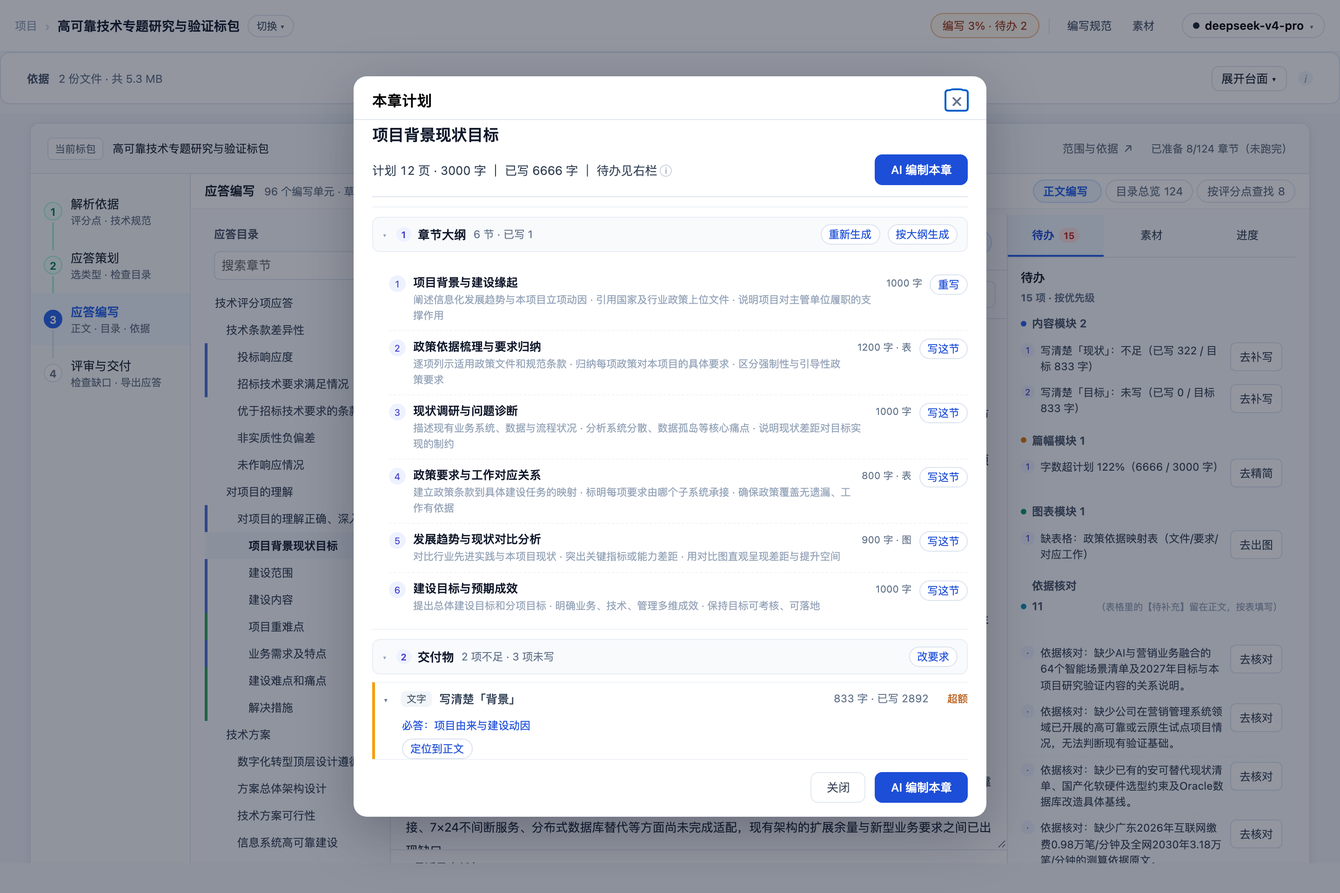
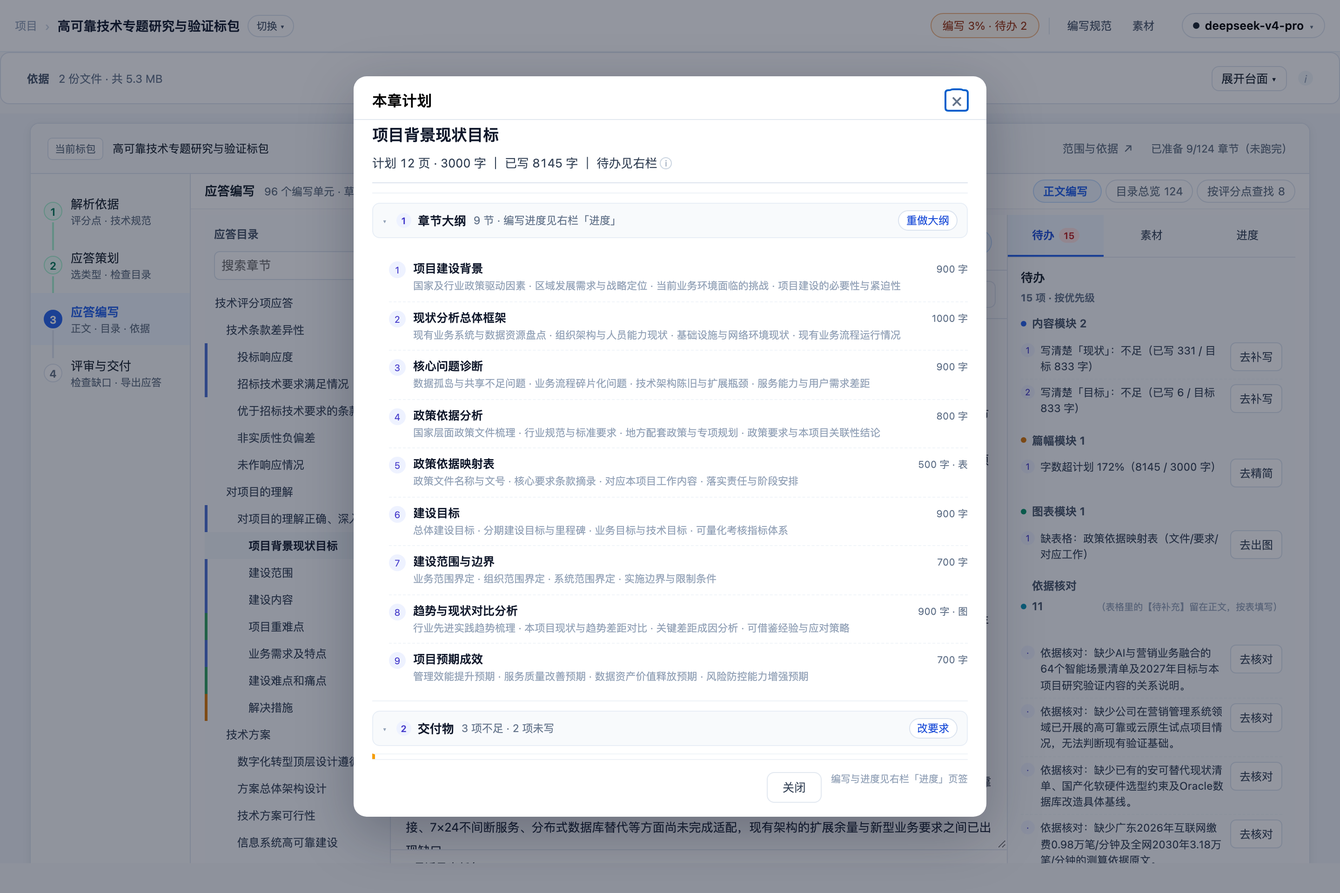
refactor(职责分离): 计划面板只给大纲要求；编写动作与完成情况全部归「进度」页签
用户指出：计划里不该有"重写/完成情况"，计划只给大纲与要求；
开始编写、编写进度、完成情况都在「进度」模块体现。

## 计划面板（只读说明书）
- 删除大纲里的每节「编写本节/重写本节」按钮
- 删除「已写 N 节」完成状态（改为"编写进度见右栏「进度」"）
- 删除按钮组「编写整章 / 按大纲重排 / 按大纲生成」
- 删除顶部与底部两个「AI 编制本章 / 编写整章」按钮
- 只保留「生成大纲 / 重做大纲」（这是计划内容本身）

## 右栏「进度」页签（承载编写）
```
章节编写进度
9/9 节已写
[继续编写（补未写）]        ← 开始/继续编写整章
1 项目建设背景      已写    [重写本节]
2 现状分析总体框架   已写    [重写本节]
…
（下方保留原有"本章编制进度"：篇幅/字数/生成记录）
```

## 章头「编写整章」
- 文案：AI 编制本章 → **编写整章**（title 说明"按章节大纲逐节编写，已有内容的节保留"）
- 行为：切到「进度」页签并调用**同一引擎** `writeChapterApi`（只补未写节）
- 计划面板、进度页签、章头三处不再各有一套逻辑

## 引擎统一（模块级）
- `fetchChapterPlan()` / `writeSectionApi()` / `writeChapterApi({onlyMissing})`
- 三处入口共用；`writeChapterApi` 只补未写/待写的节，已写节保留

## 页签互斥修复
- 补上 `[data-panel=todo|materials|ai]` 三者的显隐规则（此前只互斥 todo/materials，
  导致"进度"页签会与另两个 pane 同时显示）

## 自检（51 条）
- 计划面板只给大纲与要求（无编写动作）
- 计划面板头部无主操作按钮
- 进度页签承载编写进度与动作
- 页签切换互斥（三页签）

后端 968 passed · 界面 51/51（v339）

diff --git a/frontend/assets/chapter-studio.css b/frontend/assets/chapter-studio.css
@@ -3,7 +3,7 @@
 @media(max-width:1200px){.cs-workspace{grid-template-columns:185px minmax(300px,1fr)}.cs-aside{grid-column:1/-1;max-height:380px;border-top:1px solid #e2e8f0}.cs-workspace{height:auto}.cs-main{min-height:560px}.cs-tree{max-height:650px}}
 @media(max-width:700px){.cs-workspace,.cs-workspace:has(.cs-aside[hidden]){grid-template-columns:minmax(0,1fr)}.cs-tree{max-height:200px;border-bottom:1px solid #e2e8f0}.cs-editor{min-height:380px}.cs-document [data-cs=progress]{margin-left:0}}
 .cs-team{padding:10px 12px;background:#f8fafc;border-bottom:1px solid #e2e8f0;font-size:12px;line-height:1.8}.cs-team summary{cursor:pointer;font-weight:600}.cs-team button{font:inherit;padding:5px 9px;background:white;border:1px solid #dbe3ef;border-radius:6px;margin:3px 6px 3px 0;cursor:pointer}.cs-team button:disabled{opacity:.5}.ct-models{display:grid;grid-template-columns:repeat(auto-fit,minmax(180px,1fr));gap:8px;padding:8px 0}.ct-models label{display:flex;flex-direction:column;gap:4px}.ct-models select{padding:5px;max-width:100%;border:1px solid #dbe3ef;border-radius:5px}.ct-jobs article{padding:8px 0;border-bottom:1px solid #e2e8f0}.ct-jobs strong{margin-right:12px}.ct-detail{max-height:360px;overflow:auto}.ct-detail h4,.ct-detail h5{margin:8px 0}.ct-status:not(:empty){padding:8px 0;color:#1e40af}
-.cs-document-head{display:flex;justify-content:space-between;align-items:center;gap:12px;padding:12px 0;font-size:13px;border-bottom:1px solid #e2e8f0}.cs-document-head [data-cs=progress]{margin-left:12px;font-size:12px;color:#64748b}.cs-delivery{position:relative;font-size:12px}.cs-delivery>summary{cursor:pointer;color:#475569}.cs-delivery>.cs-document{position:absolute;right:0;top:26px;width:400px;max-width:80vw;padding:16px;background:white;border:1px solid #dbe3ef;border-radius:8px;box-shadow:0 8px 24px #17203315;z-index:5}.cs-tree-label{padding:12px 10px 0;font-size:12px;font-weight:600;color:#475569}.cs-main .cs-chapter-heading{padding:16px 16px 10px}.cs-chapter-heading h3{margin:3px 0 6px;font-size:18px}.cs-more{position:relative;margin-left:auto;font-size:12px}.cs-more>summary{cursor:pointer;padding:6px 9px}.cs-more[open]{display:flex;flex-wrap:wrap}.cs-toolbar{align-items:center}.cs-inspector{padding:0;min-width:0}.cs-inspector-tabs{display:flex;position:sticky;top:0;z-index:2;background:#fafbfd;border-bottom:1px solid #e2e8f0}.cs-inspector-tabs button{flex:1;border:0;border-bottom:2px solid transparent;border-radius:0;padding:13px 3px;white-space:nowrap;background:transparent}.cs-inspector-tabs [aria-pressed=true]{border-bottom-color:#2563eb;color:#1d4ed8;font-weight:600;background:#eff6ff}.cs-inspector [data-cs=aside]{padding:0 14px}.cs-inspector[data-panel=todo] [data-pane=materials],.cs-inspector[data-panel=materials] [data-pane=todo],.cs-inspector:not([data-panel=ai]) .cs-team,.cs-inspector[data-panel=ai] [data-cs=aside]{display:none}.cs-inspector .cs-team{border:0;background:transparent;padding:14px}.cs-team h4{font-size:14px;margin:0 0 8px}.cs-team .cs-primary{background:#2563eb;color:#fff;border-color:#2563eb;padding:9px 14px}.ct-steps{display:flex;gap:4px;padding:0;list-style:none;margin:12px 0;font-size:11px}.ct-steps li{flex:1;background:#f1f5f9;color:#64748b;padding:6px 3px;text-align:center;border-radius:4px}.ct-steps .active{background:#dbeafe;color:#1d4ed8}.ct-steps .done{background:#ecfdf5;color:#047857}.ct-settings,.ct-history{padding:12px 0;border-bottom:1px solid #e2e8f0}.ct-history article{padding:10px 0;border-bottom:1px solid #e2e8f0}.ct-detail:empty{display:none}.cs-workspace .cs-editor:focus{box-shadow:inset 3px 0 #dbeafe}
+.cs-document-head{display:flex;justify-content:space-between;align-items:center;gap:12px;padding:12px 0;font-size:13px;border-bottom:1px solid #e2e8f0}.cs-document-head [data-cs=progress]{margin-left:12px;font-size:12px;color:#64748b}.cs-delivery{position:relative;font-size:12px}.cs-delivery>summary{cursor:pointer;color:#475569}.cs-delivery>.cs-document{position:absolute;right:0;top:26px;width:400px;max-width:80vw;padding:16px;background:white;border:1px solid #dbe3ef;border-radius:8px;box-shadow:0 8px 24px #17203315;z-index:5}.cs-tree-label{padding:12px 10px 0;font-size:12px;font-weight:600;color:#475569}.cs-main .cs-chapter-heading{padding:16px 16px 10px}.cs-chapter-heading h3{margin:3px 0 6px;font-size:18px}.cs-more{position:relative;margin-left:auto;font-size:12px}.cs-more>summary{cursor:pointer;padding:6px 9px}.cs-more[open]{display:flex;flex-wrap:wrap}.cs-toolbar{align-items:center}.cs-inspector{padding:0;min-width:0}.cs-inspector-tabs{display:flex;position:sticky;top:0;z-index:2;background:#fafbfd;border-bottom:1px solid #e2e8f0}.cs-inspector-tabs button{flex:1;border:0;border-bottom:2px solid transparent;border-radius:0;padding:13px 3px;white-space:nowrap;background:transparent}.cs-inspector-tabs [aria-pressed=true]{border-bottom-color:#2563eb;color:#1d4ed8;font-weight:600;background:#eff6ff}.cs-inspector [data-cs=aside]{padding:0 14px}.cs-inspector[data-panel=todo] [data-pane=materials],.cs-inspector[data-panel=materials] [data-pane=todo],.cs-inspector[data-panel=todo] [data-pane=ai],.cs-inspector[data-panel=materials] [data-pane=ai],.cs-inspector[data-panel=ai] [data-pane=materials],.cs-inspector[data-panel=ai] [data-pane=todo],.cs-inspector:not([data-panel=ai]) .cs-team{display:none}.cs-inspector .cs-team{border:0;background:transparent;padding:14px}.cs-team h4{font-size:14px;margin:0 0 8px}.cs-team .cs-primary{background:#2563eb;color:#fff;border-color:#2563eb;padding:9px 14px}.ct-steps{display:flex;gap:4px;padding:0;list-style:none;margin:12px 0;font-size:11px}.ct-steps li{flex:1;background:#f1f5f9;color:#64748b;padding:6px 3px;text-align:center;border-radius:4px}.ct-steps .active{background:#dbeafe;color:#1d4ed8}.ct-steps .done{background:#ecfdf5;color:#047857}.ct-settings,.ct-history{padding:12px 0;border-bottom:1px solid #e2e8f0}.ct-history article{padding:10px 0;border-bottom:1px solid #e2e8f0}.ct-detail:empty{display:none}.cs-workspace .cs-editor:focus{box-shadow:inset 3px 0 #dbeafe}
 @media(min-width:981px){.cs-workspace{grid-template-columns:200px minmax(300px,1fr) 310px;height:75vh;min-height:620px}.cs-inspector{grid-column:auto;max-height:none;border-top:0}.cs-main{min-height:0}.cs-tree{max-height:none}}
 @media(max-width:980px){.cs-workspace{grid-template-columns:180px minmax(0,1fr);height:auto}.cs-inspector{grid-column:1/-1;max-height:500px;border-top:1px solid #e2e8f0}.cs-document-head{flex-wrap:wrap}.cs-document-head [data-cs=progress]{display:block;margin:5px 0 0}.cs-main{min-height:500px}.cs-tree{max-height:650px}}
 @media(max-width:600px){.cs-workspace{grid-template-columns:minmax(0,1fr)}.cs-tree{max-height:190px}.cs-toolbar{gap:4px;padding:8px}.cs-main .cs-chapter-heading{padding:12px}.cs-insert .cs-muted{display:none}}
@@ -679,3 +679,9 @@
 .cs-ol-main b { display: block; font-size: 12.5px; color: #0f172a; font-weight: 600; }
 .cs-ol-main small { display: block; margin-top: 2px; font-size: 11px; color: #94a3b8; line-height: 1.5; }
 .cs-ol-meta { flex-shrink: 0; font-size: 10.5px; color: #64748b; margin-top: 2px; }
+
+/* 进度页签：章节编写进度 */
+.cs-progress-actions { margin: 0 0 8px; }
+.cs-todo-act--primary { border-color: #1d4ed8; background: #1d4ed8; color: #fff; }
+.cs-todo-act--primary:hover { background: #1e40af; }
+.cs-cp-scope { font-size: 10.5px; color: #94a3b8; }

diff --git a/frontend/assets/mode-outline.js b/frontend/assets/mode-outline.js
@@ -2,9 +2,9 @@
    抽成模块的目的：两段内联脚本有 90 个同名顶层标识符 + 18 个重复 DOM id，
    同页拼接必然互相覆盖；各自成为一个模块即各自一个作用域。
    本文件在抽取时**未改任何逻辑**。 */
-import {mountChapterStudio, exportDocument} from './chapter-studio.mjs?v=20261016-v336';
-import { api } from './api.js?v=20261016-v336';
-import { specContentHtml } from './spec-content.mjs?v=20261016-v336';
+import {mountChapterStudio, exportDocument} from './chapter-studio.mjs?v=20261016-v339';
+import { api } from './api.js?v=20261016-v339';
+import { specContentHtml } from './spec-content.mjs?v=20261016-v339';
 // 顶栏（项目名旁边那行「第 N 轮 · ...」）由共享壳 workspace.js 渲染。这里要把它
 // 改成**页面自己的真实状态**：checkpoint 的 stage 在准备中/编写准备完成后都停在
 // outline_review，只看它的话顶栏永远显示"待确认目录"（实测就是这个问题）。
@@ -12,7 +12,7 @@ import { workspace, renderWorkspaceChrome,
          REQUIREMENT_ROLES, SELECTABLE_REQUIREMENT_ROLES, ROLE_LABEL_SHARED, ROLE_HINT_SHARED,
          roleMismatchWarning, inferRoleFromFilename,
          uiAlert, uiConfirm,
-       } from './workspace.js?v=20261016-v336';
+       } from './workspace.js?v=20261016-v339';
 import { resolvePackageScope, buildOutlineTree, isOrphanedRun, activeStages, instructionDirty, newOutlineId, outlineSubtreeRange,
          moveOutlineNode, indentOutlineNode, outdentOutlineNode,
          moveManyOutlineNodes, indentManyOutlineNodes, outdentManyOutlineNodes,
@@ -31,7 +31,7 @@ import { resolvePackageScope, buildOutlineTree, isOrphanedRun, activeStages, ins
          // 章节状态投影：素材库 / 方案编辑 / 覆盖矩阵共用同一份判定（不再各算各的）
          chapterStage, chapterBadges, filterChapters, chapterFilterCounts,
          CHAPTER_STAGE_LABELS, evidenceByChapter, expandVisibleWithAncestors
-       } from './workspace-model.mjs?v=20261016-v336';
+       } from './workspace-model.mjs?v=20261016-v339';
 
 const params = new URLSearchParams(location.search);
 // projectId **只取数字部分**：链接被误写成 `?projectId=19**(Cmd+Shift+R)`（连带说明文字）
@@ -180,7 +180,7 @@ document.head.insertAdjacentHTML('beforeend', `<style>
 // 左栏章节树：行标记与「方案编辑」共用一份（2026-10-13 左栏归一）。
 // 此前两侧各拼一套（.ot-row / .doc-outline-item），数据投影虽已共用，
 // 但标记重复维护会漂移（workspace-model.mjs 注释里记着 "#undefined" 那次）。
-import { chapterNode, chapterBadgesHtml as sharedBadgesHtml } from './chapter-tree.mjs?v=20261016-v336';
+import { chapterNode, chapterBadgesHtml as sharedBadgesHtml } from './chapter-tree.mjs?v=20261016-v339';
 const blocksEmpty = document.getElementById('blocks-empty');
 const sidebarToc  = document.getElementById('sidebar-toc');
 const ringFill    = document.getElementById('ring-fill');

diff --git a/frontend/workbench.html b/frontend/workbench.html
@@ -4,7 +4,7 @@
     <meta charset="UTF-8" />
     <meta name="viewport" content="width=device-width, initial-scale=1.0" />
     <title>智能应标 · 材料撰写</title>
-    <link rel="stylesheet" href="./assets/styles.css?v=20261016-v336" />
+    <link rel="stylesheet" href="./assets/styles.css?v=20261016-v339" />
     <style>
       /* Outline pane */
       .workspace-shell .outline-pane {
@@ -2055,7 +2055,7 @@
     </style>
     <!-- Markdown 渲染（用于预览模式） -->
     <script src="https://cdn.jsdelivr.net/npm/marked@12.0.0/marked.min.js"></script>
-  <link rel="stylesheet" href="./assets/workspace.css?v=20261016-v336" />
+  <link rel="stylesheet" href="./assets/workspace.css?v=20261016-v339" />
   </head>
   <body>
   <script>
@@ -2500,18 +2500,18 @@
       </main>
     </div>
 
-    <script type="module" src="./assets/workbench.js?v=20261016-v336"></script>
+    <script type="module" src="./assets/workbench.js?v=20261016-v339"></script>
     <script type="module">
-      import { GenerateSession } from './assets/generate-session.js?v=20261016-v336';
-      import { initContextPanel } from './assets/context-panel.js?v=20261016-v336';
-      import { api } from './assets/api.js?v=20261016-v336';
-      import { request as workspaceRequest, refreshWorkspace, workspace, confirmChapterAction } from './assets/workspace.js?v=20261016-v336';
+      import { GenerateSession } from './assets/generate-session.js?v=20261016-v339';
+      import { initContextPanel } from './assets/context-panel.js?v=20261016-v339';
+      import { api } from './assets/api.js?v=20261016-v339';
+      import { request as workspaceRequest, refreshWorkspace, workspace, confirmChapterAction } from './assets/workspace.js?v=20261016-v339';
       // 提炼字段枚举 + 素材依据的**渲染片段**与 project-init 共用（见 workspace-model.mjs 注释）：
       // 性质徽标与出处行的实现在那边只有一份，两个页面不再各写一套（曾经因此漂移出
       // "每行显示 #undefined"）。
       import { CONSTRAINT_LEVELS, constraintLevelLabel,
                evidenceKindBadgeHtml, evidenceSourceLineHtml, evidenceSnippet,
-               chapterStage, CHAPTER_STAGE_LABELS } from './assets/workspace-model.mjs?v=20261016-v336';
+               chapterStage, CHAPTER_STAGE_LABELS } from './assets/workspace-model.mjs?v=20261016-v339';
       initContextPanel();
 
       // 素材抽屉：默认收起（写作时右栏就是正文本身），点工具栏「素材 n ▸」打开；
@@ -5575,6 +5575,6 @@
       })();
     })();
     </script>
-  <script type="module" src="./assets/workspace.js?v=20261016-v336"></script>
+  <script type="module" src="./assets/workspace.js?v=20261016-v339"></script>
   </body>
 </html>

diff --git a/frontend/three-mode.html b/frontend/three-mode.html
@@ -4,9 +4,9 @@
     <meta charset="UTF-8" />
     <meta name="viewport" content="width=device-width, initial-scale=1.0" />
     <title>AiBidding · Workbench Init State</title>
-    <link rel="stylesheet" href="./assets/response-outline.css?v=20261016-v336" />
-    <link rel="stylesheet" href="./assets/chapter-studio.css?v=20261016-v336" />
-    <link rel="stylesheet" href="./assets/styles.css?v=20261016-v336" />
+    <link rel="stylesheet" href="./assets/response-outline.css?v=20261016-v339" />
+    <link rel="stylesheet" href="./assets/chapter-studio.css?v=20261016-v339" />
+    <link rel="stylesheet" href="./assets/styles.css?v=20261016-v339" />
     <style>
 /* ── 三栏布局 ── */
 .init-layout {
@@ -3350,8 +3350,8 @@ body[data-view="matching"] .match-detail { display: block; }
   body[data-view="editor"] .ws-editor-layout { flex: 1 1 auto; min-height: 0; }
 
 </style>
-  <link rel="stylesheet" href="./assets/workspace.css?v=20261016-v336" />
-  <link rel="stylesheet" href="./assets/ui.css?v=20261016-v336" />   <!-- 组件最小集：最后加载以统一历史类名 -->
+  <link rel="stylesheet" href="./assets/workspace.css?v=20261016-v339" />
+  <link rel="stylesheet" href="./assets/ui.css?v=20261016-v339" />   <!-- 组件最小集：最后加载以统一历史类名 -->
   </head>
   <body data-view="outline" data-modes="outline,matching,editor">
     <div class="workspace-shell">
@@ -4062,16 +4062,16 @@ body[data-view="matching"] .match-detail { display: block; }
         if (skel) skel.hidden = true;
       }, 6000);
     </script>
-    <script type="module" src="./assets/workbench.js?v=20261016-v336"></script>
-    <script type="module" src="./assets/mode-dispatch.js?v=20261016-v336"></script>
+    <script type="module" src="./assets/workbench.js?v=20261016-v339"></script>
+    <script type="module" src="./assets/mode-dispatch.js?v=20261016-v339"></script>
     <!-- 动态 import：失败可捕获并上报（静态 import 失败无法捕获，会让整页静默不执行） -->
     <script type="module">
-      for (const mod of ['./assets/mode-outline.js?v=20261016-v336',
-                        './assets/mode-editor.js?v=20261016-v336']) {
+      for (const mod of ['./assets/mode-outline.js?v=20261016-v339',
+                        './assets/mode-editor.js?v=20261016-v339']) {
         try { await import(mod); }
         catch (err) { window.__bootErrors.push(`模块加载失败 ${mod}：${err?.message || err}`); }
       }
     </script>
-  <script type="module" src="./assets/workspace.js?v=20261016-v336"></script>
+  <script type="module" src="./assets/workspace.js?v=20261016-v339"></script>
   </body>
 </html>

diff --git a/frontend/project-init.html b/frontend/project-init.html
@@ -4,7 +4,7 @@
     <meta charset="UTF-8" />
     <meta name="viewport" content="width=device-width, initial-scale=1.0" />
     <title>AiBidding · Workbench Init State</title>
-    <link rel="stylesheet" href="./assets/styles.css?v=20261016-v336" />
+    <link rel="stylesheet" href="./assets/styles.css?v=20261016-v339" />
     <style>
 /* ── 三栏布局 ── */
 .init-layout {
@@ -889,7 +889,7 @@ body[data-view="matching"] .match-detail { display: block; }
   background: #eff6ff;
 }
     </style>
-  <link rel="stylesheet" href="./assets/workspace.css?v=20261016-v336" />
+  <link rel="stylesheet" href="./assets/workspace.css?v=20261016-v339" />
   </head>
   <body data-view="outline">
   <script>
@@ -1097,14 +1097,14 @@ body[data-view="matching"] .match-detail { display: block; }
     </div>
 
     <script type="module">
-import { api } from './assets/api.js?v=20261016-v336';
+import { api } from './assets/api.js?v=20261016-v339';
 // 顶栏（项目名旁边那行「第 N 轮 · ...」）由共享壳 workspace.js 渲染。这里要把它
 // 改成**页面自己的真实状态**：checkpoint 的 stage 在提炼中/提炼完成后都停在
 // outline_review，只看它的话顶栏永远显示"待确认目录"（实测就是这个问题）。
 import { workspace, renderWorkspaceChrome,
          REQUIREMENT_ROLES, ROLE_LABEL_SHARED, ROLE_HINT_SHARED,
          roleMismatchWarning, inferRoleFromFilename,
-       } from './assets/workspace.js?v=20261016-v336';
+       } from './assets/workspace.js?v=20261016-v339';
 import { buildOutlineTree, isOrphanedRun, activeStages, instructionDirty, newOutlineId, outlineSubtreeRange,
          moveOutlineNode, indentOutlineNode, outdentOutlineNode,
          removeOutlineSubtree, insertSiblingAfter, insertChildOf,
@@ -1118,7 +1118,7 @@ import { buildOutlineTree, isOrphanedRun, activeStages, instructionDirty, newOut
          // 章节状态投影：素材库 / 方案编辑 / 覆盖矩阵共用同一份判定（不再各算各的）
          chapterStage, chapterBadges, filterChapters, chapterFilterCounts,
          CHAPTER_STAGE_LABELS, evidenceByChapter, expandVisibleWithAncestors
-       } from './assets/workspace-model.mjs?v=20261016-v336';
+       } from './assets/workspace-model.mjs?v=20261016-v339';
 
 const params = new URLSearchParams(location.search);
 const projectId = params.get('projectId');
@@ -4957,6 +4957,6 @@ bindMatchDetailActions();
   });
 })();
     </script>
-  <script type="module" src="./assets/workspace.js?v=20261016-v336"></script>
+  <script type="module" src="./assets/workspace.js?v=20261016-v339"></script>
   </body>
 </html>

diff --git a/frontend/assets/mode-editor.js b/frontend/assets/mode-editor.js
@@ -2,13 +2,13 @@
    抽成模块的目的：两段内联脚本有 90 个同名顶层标识符 + 18 个重复 DOM id，
    同页拼接必然互相覆盖；各自成为一个模块即各自一个作用域。
    本文件在抽取时**未改任何逻辑**。 */
-import { GenerateSession } from './generate-session.js?v=20261016-v336';
+import { GenerateSession } from './generate-session.js?v=20261016-v339';
 // 左栏章节树：与「要求与大纲 / 素材库」共用一份行标记（2026-10-13 左栏归一）
-import { chapterNode, renderChapterTree } from './chapter-tree.mjs?v=20261016-v336';
-import { initContextPanel } from './context-panel.js?v=20261016-v336';
-import { api } from './api.js?v=20261016-v336';
+import { chapterNode, renderChapterTree } from './chapter-tree.mjs?v=20261016-v339';
+import { initContextPanel } from './context-panel.js?v=20261016-v339';
+import { api } from './api.js?v=20261016-v339';
 import { request as workspaceRequest, refreshWorkspace, workspace, confirmChapterAction ,
-         uiAlert, uiConfirm} from './workspace.js?v=20261016-v336';
+         uiAlert, uiConfirm} from './workspace.js?v=20261016-v339';
 
 // ── 本章要求 bar 的应答条目缓存 ──────────────────────────────
 // 必须**声明在模块最前面**：它原本声明在文件中部，而模块之间存在循环依赖
@@ -21,7 +21,7 @@ let responseItemsByBlock = {};
 // "每行显示 #undefined"）。
 import { CONSTRAINT_LEVELS, constraintLevelLabel,
          evidenceKindBadgeHtml, evidenceSourceLineHtml, evidenceSnippet,
-         chapterStage, CHAPTER_STAGE_LABELS } from './workspace-model.mjs?v=20261016-v336';
+         chapterStage, CHAPTER_STAGE_LABELS } from './workspace-model.mjs?v=20261016-v339';
 initContextPanel();
 
 // 素材抽屉：默认收起（写作时右栏就是正文本身），点工具栏「素材 n ▸」打开；

diff --git a/frontend/project-intake.html b/frontend/project-intake.html
@@ -3,7 +3,7 @@
 <head>
   <meta charset="utf-8"><meta name="viewport" content="width=device-width,initial-scale=1">
   <title>项目准备 · 智能应标</title>
-  <link rel="stylesheet" href="/assets/styles.css?v=20261016-v336">
+  <link rel="stylesheet" href="/assets/styles.css?v=20261016-v339">
   <style>
     body{margin:0;background:#f7f8fa;color:#17202a;font-family:Inter,"PingFang SC",sans-serif}
     .shell{max-width:1120px;margin:auto;padding:28px}.top{display:flex;justify-content:space-between;align-items:center;margin-bottom:22px}
@@ -32,4 +32,4 @@
 </main>
 <dialog id="package-editor"><form id="package-form"><h2>编辑投标对象</h2><p class="hint">仅在识别有误时修改；名称可留空。</p><input id="edit-id" type="hidden"><label>对象类型<select id="edit-kind"><option value="package">标包</option><option value="section">标段</option><option value="target">独立标的</option></select></label><label>所属标的编号<input id="edit-target"></label><label>标包 / 标段编号<input id="edit-code"></label><label>完整名称<input id="edit-name" maxlength="300"></label><div class="actions"><button type="button" id="cancel-edit">取消</button><button class="primary" type="submit">保存</button></div></form></dialog>
 <dialog id="merge-dialog"><form id="merge-form"><h2>合并重复候选</h2><p class="hint">将当前候选的证据合并到以下保留项。已有运行成果的候选不能合并，保留项需要重新核验。</p><input id="merge-source" type="hidden"><label>保留的投标对象<select id="merge-destination"></select></label><div class="actions"><button type="button" id="cancel-merge">取消</button><button type="submit" class="primary">确认合并</button></div></form></dialog>
-<script type="module" src="/assets/intake.js?v=20261016-v336"></script></body></html>
+<script type="module" src="/assets/intake.js?v=20261016-v339"></script></body></html>

diff --git a/frontend/review.html b/frontend/review.html
@@ -4,16 +4,16 @@
     <meta charset="UTF-8" />
     <meta name="viewport" content="width=device-width, initial-scale=1.0" />
     <title>AiBidding · 质量检查</title>
-    <link rel="stylesheet" href="./assets/styles.css?v=20261016-v336" />
-    <link rel="stylesheet" href="./assets/review.css?v=20261016-v336" />
-  <link rel="stylesheet" href="./assets/workspace.css?v=20261016-v336" />
+    <link rel="stylesheet" href="./assets/styles.css?v=20261016-v339" />
+    <link rel="stylesheet" href="./assets/review.css?v=20261016-v339" />
+  <link rel="stylesheet" href="./assets/workspace.css?v=20261016-v339" />
   <style>
     /* 返回作业面板：与项目名同级的次级入口 */
     .back-to-panel { margin-left:10px; font-size:12.5px; color:var(--muted); text-decoration:none;
       border:1px solid var(--line); border-radius:8px; padding:3px 10px; }
     .back-to-panel:hover { color:var(--text); background:var(--bg-2); }
   </style>
-  <link rel="stylesheet" href="./assets/ui.css?v=20261016-v336" />   <!-- 组件最小集：最后加载以统一历史类名 -->
+  <link rel="stylesheet" href="./assets/ui.css?v=20261016-v339" />   <!-- 组件最小集：最后加载以统一历史类名 -->
   </head>
   <body>
     <div class="workspace-shell">
@@ -96,7 +96,7 @@
       </main>
     </div>
 
-    <script type="module" src="./assets/review.js?v=20261016-v336"></script>
-  <script type="module" src="./assets/workspace.js?v=20261016-v336"></script>
+    <script type="module" src="./assets/review.js?v=20261016-v339"></script>
+  <script type="module" src="./assets/workspace.js?v=20261016-v339"></script>
   </body>
 </html>

diff --git a/frontend/assets/workbench.js b/frontend/assets/workbench.js
@@ -1,12 +1,12 @@
-import {workspace, subscribe, refreshWorkspace, workspaceUrl, confirmChapterAction, openDialog, showHistory, statusLabels, esc} from './workspace.js?v=20261016-v336';
+import {workspace, subscribe, refreshWorkspace, workspaceUrl, confirmChapterAction, openDialog, showHistory, statusLabels, esc} from './workspace.js?v=20261016-v339';
 // 章节状态/依据徽标与「素材库」共用一份投影（同一棵目录树，四个环节都一样）
-import {chapterBadges, parseEvidence} from './workspace-model.mjs?v=20261016-v336';
+import {chapterBadges, parseEvidence} from './workspace-model.mjs?v=20261016-v339';
 // 左栏章节树：**三个模式共用一份**行标记（2026-10-13 归一）。
 // 此前编辑器侧自己拼 `.doc-outline-item`、大纲侧拼 `.ot-row`，是两套实现；
 // 数据投影本就共用（workspace-model），这里把标记也收敛掉。
 // 行上仍保留 `doc-outline-item` 类与 data-block-id 属性，兼容 mode-editor.js 里
 // 既有的 10 处选择器（改动面最小化）。
-import {chapterNode, renderChapterTree, chapterBadgesHtml} from './chapter-tree.mjs?v=20261016-v336';
+import {chapterNode, renderChapterTree, chapterBadgesHtml} from './chapter-tree.mjs?v=20261016-v339';
 // 左栏树的**唯一宿主**：由 mode-dispatch 在模式切换时把 #blocks-list 搬到当前模式的
 // 左栏位置。归一前这里是 `.doc-outline`，与大纲侧 `#blocks-list` 各渲一棵（实测
 // .ot-node 有 120 个 = 两棵各 60）。动态解析而不是加载时捕获，就是为了让宿主可搬。

diff --git a/frontend/projects.html b/frontend/projects.html
@@ -4,7 +4,7 @@
     <meta charset="UTF-8" />
     <meta name="viewport" content="width=device-width, initial-scale=1.0" />
     <title>智能应标 · 项目列表</title>
-    <link rel="stylesheet" href="./assets/styles.css?v=20261016-v336" />
+    <link rel="stylesheet" href="./assets/styles.css?v=20261016-v339" />
     <style>
       /* ── 页头 ── */
       .app-header {
@@ -613,7 +613,7 @@
       .btn-api-save:disabled { opacity: 0.45; cursor: default; }
       .btn-api-save:not(:disabled):hover { opacity: 0.88; }
     </style>
-    <link rel="stylesheet" href="./assets/ui.css?v=20261016-v336" />   <!-- 组件最小集：最后加载以统一历史类名 -->
+    <link rel="stylesheet" href="./assets/ui.css?v=20261016-v339" />   <!-- 组件最小集：最后加载以统一历史类名 -->
 </head>
   <body>
     <!-- 页头 -->
@@ -745,7 +745,7 @@
     </div>
 
     <script type="module">
-      import { api } from './assets/api.js?v=20261016-v336';
+      import { api } from './assets/api.js?v=20261016-v339';
 
       // ── 状态 ──
       const reqFiles = []; // {file, name, size, ext}

diff --git a/frontend/diff-review.html b/frontend/diff-review.html
@@ -4,8 +4,8 @@
     <meta charset="UTF-8" />
     <meta name="viewport" content="width=device-width, initial-scale=1.0" />
     <title>AiBidding · Diff Review</title>
-    <link rel="stylesheet" href="./assets/styles.css?v=20261016-v336" />
-  <link rel="stylesheet" href="./assets/workspace.css?v=20261016-v336" />
+    <link rel="stylesheet" href="./assets/styles.css?v=20261016-v339" />
+  <link rel="stylesheet" href="./assets/workspace.css?v=20261016-v339" />
   </head>
   <body>
     <div class="workspace-shell">
@@ -98,7 +98,7 @@
     </div>
 
     <script type="module">
-      import { api } from './assets/api.js?v=20261016-v336';
+      import { api } from './assets/api.js?v=20261016-v339';
 
       const params    = new URLSearchParams(location.search);
       const projectId = params.get('projectId');
@@ -326,6 +326,6 @@
 
       loadRevisions();
     </script>
-  <script type="module" src="./assets/workspace.js?v=20261016-v336"></script>
+  <script type="module" src="./assets/workspace.js?v=20261016-v339"></script>
   </body>
 </html>

diff --git a/frontend/assets/workspace.js b/frontend/assets/workspace.js
@@ -1,11 +1,11 @@
-import {projectChapters, summarize, statusLabels, stageLabels, activeStages, runtimeStages, isOrphanedRun, isExtractDone, diffHtml, escapeHtml as esc} from './workspace-model.mjs?v=20261016-v336';
+import {projectChapters, summarize, statusLabels, stageLabels, activeStages, runtimeStages, isOrphanedRun, isExtractDone, diffHtml, escapeHtml as esc} from './workspace-model.mjs?v=20261016-v339';
 export {statusLabels, esc};
 // 材料角色体系再导出：project-init 的角色下拉与"分类纠错提示"都从这里取
 export {
   REQUIREMENT_ROLES, SELECTABLE_REQUIREMENT_ROLES, SOURCE_ROLES, ALL_MATERIAL_ROLES,
   ROLE_LABEL as ROLE_LABEL_SHARED, ROLE_HINT as ROLE_HINT_SHARED,
   isRequirementRole, inferRoleFromFilename, roleMismatchWarning,
-} from './material-roles.mjs?v=20261016-v336';
+} from './material-roles.mjs?v=20261016-v339';
 export async function request(url, options) {
   const response = await fetch(url, options);
   const data = await response.json().catch(() => ({}));
